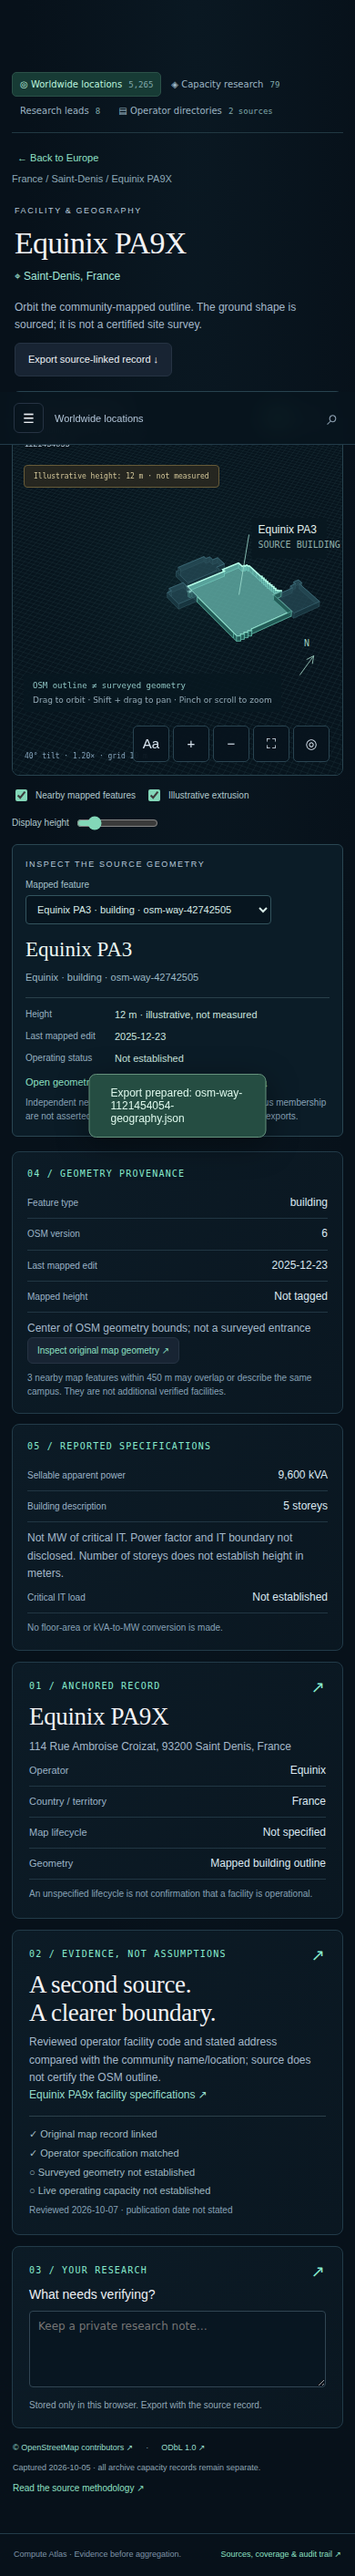
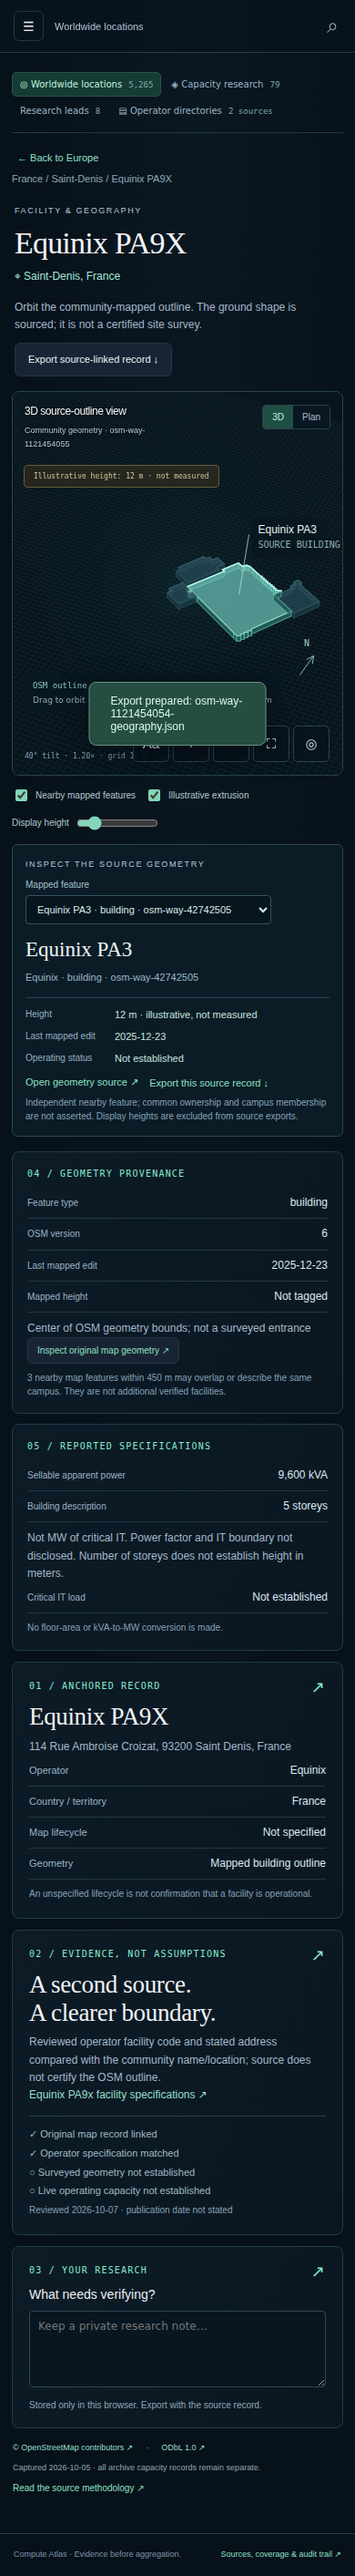
Record verified release, CI and live backup checkpoint

diff --git a/docs/checkpoints/2026-10-09-runtime.md b/docs/checkpoints/2026-10-09-runtime.md
@@ -1,0 +1,57 @@
+# Verified release and remaining public route — 9 October 2026
+
+Implementation commit: `6eb17786ff771fb66a066fd0f18601725ff2c1af`; tree
+`c5429344a94e75201a1f67d4a2d22847f4b56afa`.
+[PR #22](https://github.com/Untitled1-Agent/compute-atlas/pull/22) is reviewable
+and remains unmerged. Main remains the previously verified checkpoint.
+
+Both exact-commit workflows succeeded:
+[live checks, run 38002758610](https://github.com/Untitled1-Agent/compute-atlas/actions/runs/38002758610)
+and [recoverable source bundle, run 38002758597](https://github.com/Untitled1-Agent/compute-atlas/actions/runs/38002758597).
+Local validation also passed 216 backend tests and 778 application/data checks.
+The committed inspection script was rerun successfully (77 checks); the mobile
+capture returns to the top so its fixed header appears in the correct position.
+
+The pinned release is installed in
+`~/.local/share/compute-atlas/releases/6eb17786ff771fb66a066fd0f18601725ff2c1af/`.
+`current` selects it. Pinned production dependencies, persistent private SQLite
+state and immutable bodies are outside the release. `compute-atlas.service` is
+enabled and runs only on `127.0.0.1:8137` with root `/compute`; user lingering
+is enabled. The deployed user units pass systemd validation.
+
+Health, prefixed bootstrap, private asset/API responses and forbidden Python,
+installer and database paths were checked against this real service. Its
+background worker is enabled and actually creates source versions and review
+items. Current accepted observations/facts/relationships remain 40/35/21, with
+eight candidate leads. Hosted publication has 29 source records: 27 curated
+primary records plus the two independently registered directory sources.
+Source registry counts include additional geography and feed jobs.
+
+The daily backup timer is enabled. Its first completed online snapshot,
+`20261009T231003Z-2e43937b`, passed database integrity and SHA-256 checks for
+the database and all 23 immutable bodies it references, while acquisition
+continued. The backup occupies about 20 MiB and captures about 14 MiB at this
+checkpoint. No raw bodies, credentials, database files or backups were committed
+or added to the web-asset allowlist. The [runtime receipt](evidence/2026-10-09/runtime.json)
+records dated actual counts and hashes.
+
+**The external route is not yet deployed.** `https://untitled1.cc/compute/`
+still returned 404. Updating `/etc/nginx/sites-available/untitled1.cc` needs
+administrator authentication. Direct sudo has no-new-privileges restrictions;
+the user service manager's sudo check independently reported that a password
+is required. This is missing host authentication, not a new permission request
+to publish: the user has already authorized the deployment and Basic Auth.
+Administrator access was requested during the active work.
+
+The remaining administrator command is:
+
+```sh
+sudo /usr/bin/python3 /home/username1/.local/share/compute-atlas/current/deploy/install_nginx.py
+```
+
+It preserves existing routes, backs up and validates Nginx, reloads the protected
+location, and gives `/compute/` a separate password file containing the existing
+`/files` login hashes. Then verify anonymous 401 and authenticated HTTPS/browser
+behavior, and update this receipt. Do not call a loopback check or the temporary
+QA proxy proof of production authentication. The
+[deployment/recovery guide](../protected-deployment.md) covers the full operation.
